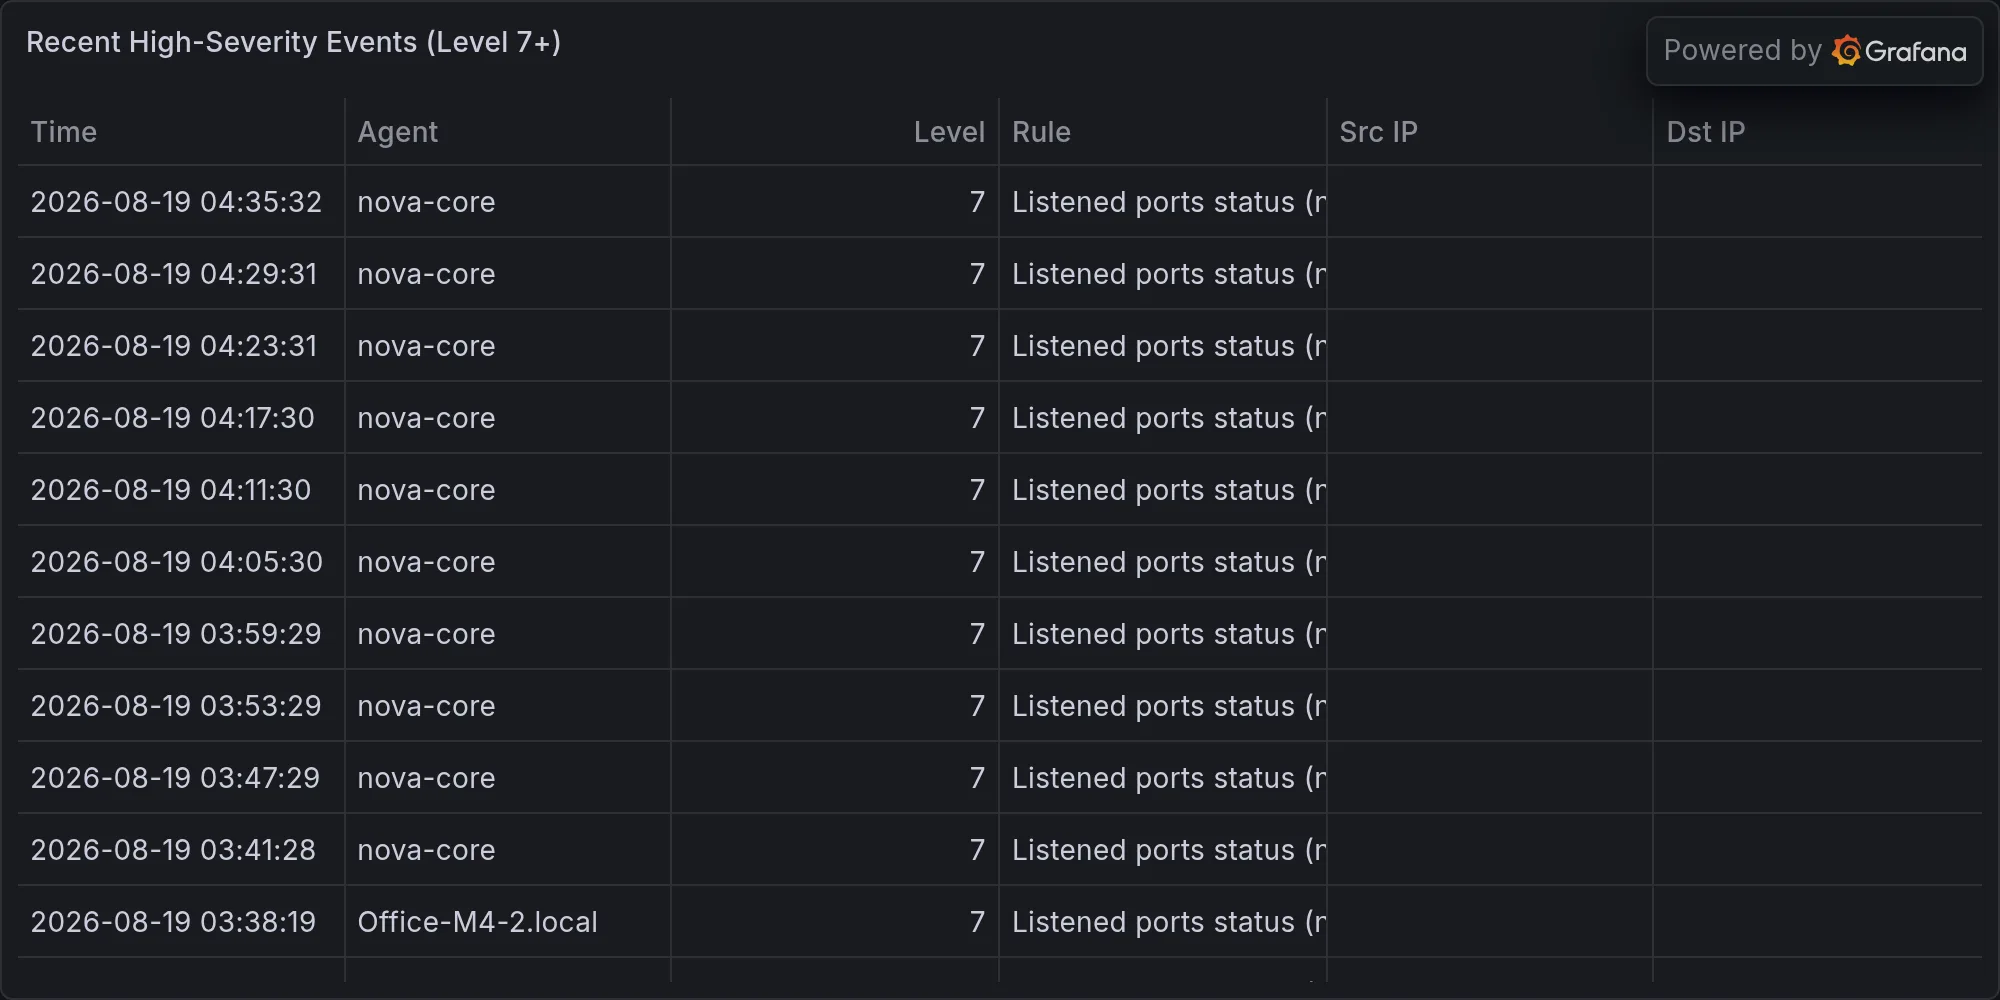
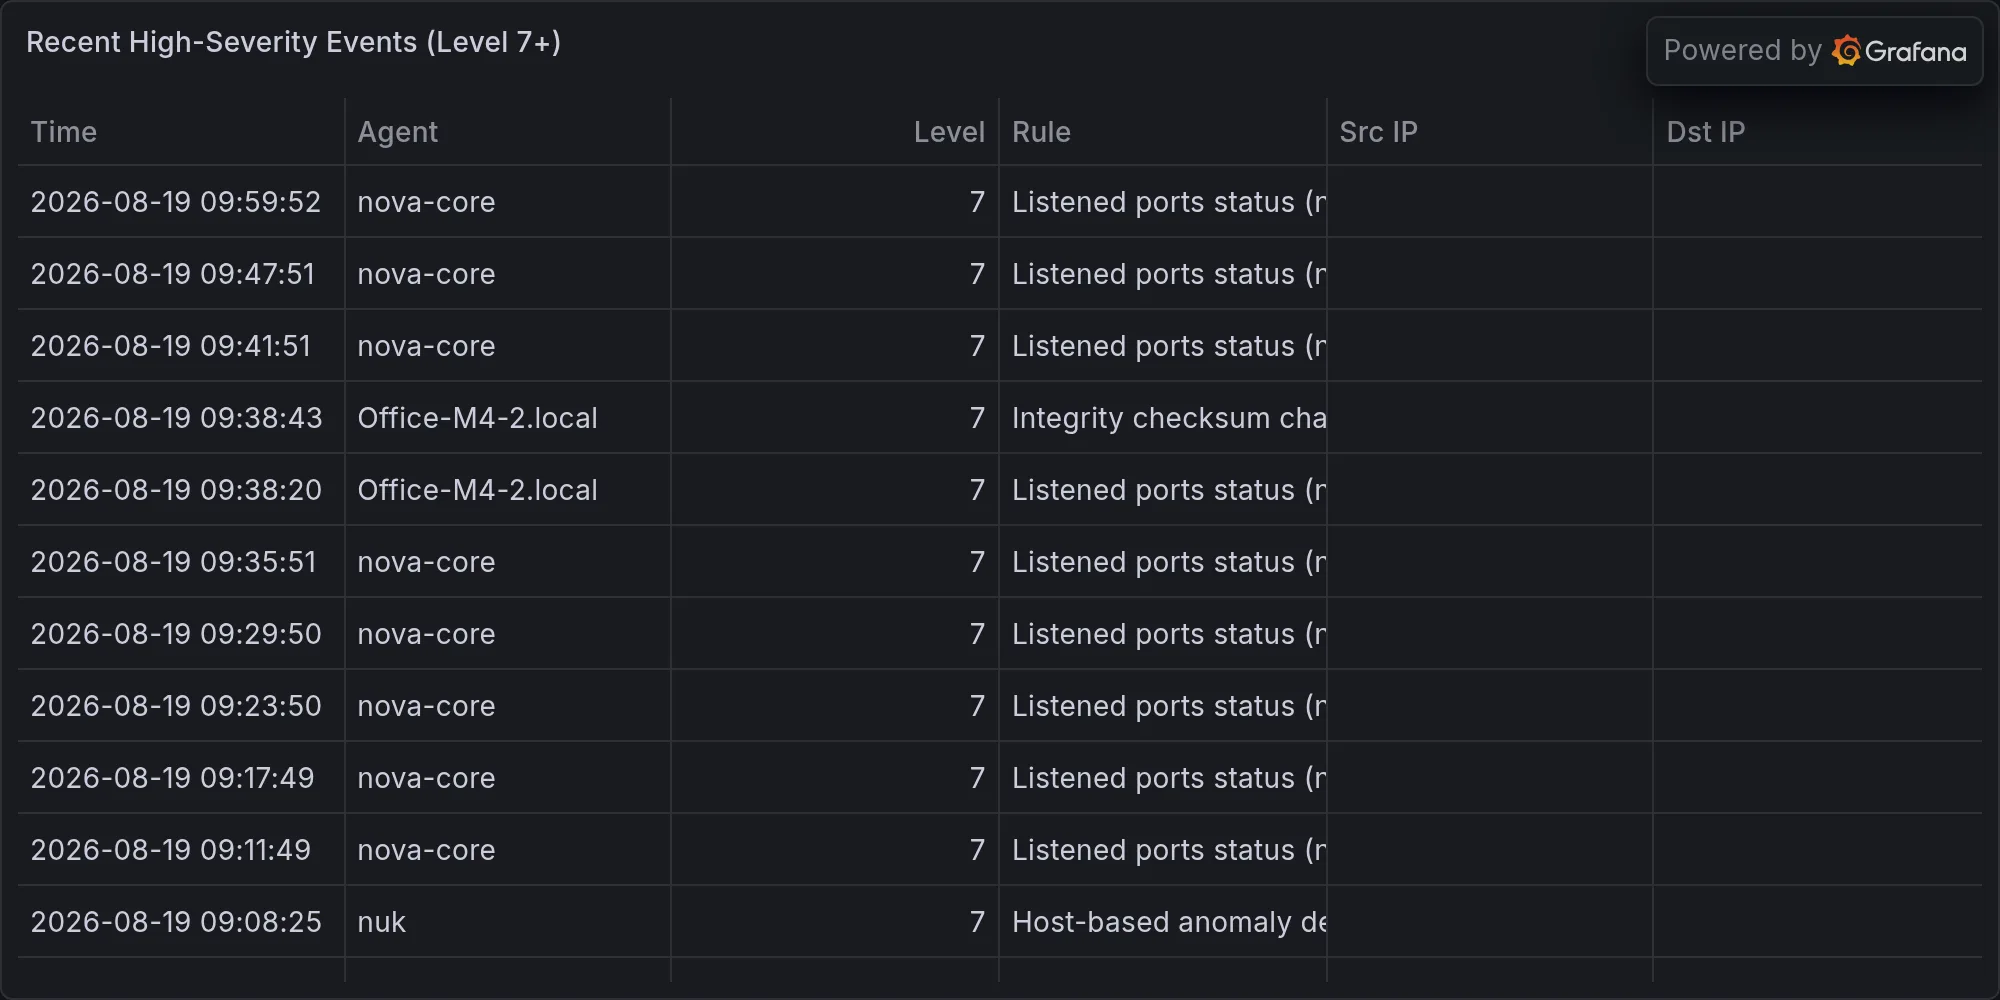
security: 2026-08-19 — **APPLE macOS 26.6.2 SECURITY UPDATE RELEASED — CV

diff --git a/content/operations/2026-08-19-apple-macos-26-6-2-security-update-released-cve-details-pend.md b/content/operations/2026-08-19-apple-macos-26-6-2-security-update-released-cve-details-pend.md
@@ -1,0 +1,45 @@
+---
+title: "🛡 **APPLE macOS 26.6.2 SECURITY UPDATE RELEASED — CVE DETAILS PENDING VERIFICATION**"
+date: 2026-08-19T10:00:42-07:00
+draft: false
+categories: ["operations"]
+tags: ["breaking-alert", "apple-security-update-macos-is-26-6-2", "security"]
+description: "BREAKING: Apple Security Update: macOS is 26.6.2"
+cover:
+  image: "/images/operations/2026-08-19-apple-macos-26-6-2-security-update-released-cve-details-pend.webp"
+  alt: "**APPLE macOS 26.6.2 SECURITY UPDATE RELEASED — CVE DETAILS PENDING VERIFICATION**"
+  relative: false
+---
+
+*Published Wednesday, August 19, 2026 at 10:00 AM PT*
+
+![**APPLE macOS 26.6.2 SECURITY UPDATE RELEASED — CVE DETAILS PENDING VERIFICATION**](/images/operations/2026-08-19-apple-macos-26-6-2-security-update-released-cve-details-pend.webp)
+
+**BLUF:** Apple has released macOS 26.6.2. An official support document exists at https://support.apple.com/en-us/100100 with CVE details, but those specifics cannot be confirmed from available sources. Operators with macOS systems should prepare for immediate patching pending vulnerability scope assessment.
+
+**DETAILS**
+- **Release confirmed:** macOS 26.6.2 is now available; consistent with Apple's accelerated security cadence observed in June-August 2026.
+- **CVE index location:** Apple's official support document at https://support.apple.com/en-us/100100 holds the authoritative CVE list and severity ratings — details unconfirmed pending direct access.
+- **Pattern context:** Preceding releases in this cycle (26.5.2, 26.5.1, 26.5, Safari 26.5.2, visionOS 26.6, watchOS 26.6) patched 25+ vulnerabilities per release; macOS Tahoe updates alone addressed 155 distinct CVEs.
+- **Timing:** Release date not yet confirmed; latest dated reference is macOS Sequoia 15.7.9 (posted Aug 6, active as of Aug 13).
+
+**IMPACT**
+- **Scope:** All macOS 26.6.2 users potentially affected; specific exposure depends on vulnerability classes in the update.
+- **Risk trajectory:** Apple's recent pattern (multiple critical patches across iOS, macOS, Safari in rapid succession) suggests continued high-severity threats in this release cycle.
+
+**RECOMMENDED ACTIONS**
+- **Immediate:** Review https://support.apple.com/en-us/100100 for CVE IDs, CVSS scores, and affected components.
+- **Priority classification:** Patch within 24–72 hours for critical vulnerabilities, per organizational policy.
+- **Monitoring:** Track for emergency releases (Apple has issued point updates like 26.5.1 within days of prior releases).
+
+**SOURCES**
+- Apple Product Security (official support URL provided).
+- Pattern analysis: MacRumors, 9to5Mac, Securityweek, ZeroDayInitiative coverage of 26.5.x and 26.6.x update cycles.
+
+**STATUS:** Unconfirmed — monitoring. Verification requires direct access to Apple support documentation.
+
+---
+
+**Recent high-severity events at publish time:**
+
+![Recent high-severity events](/images/operations/2026-08-19-breaking-alert-posture.webp)
